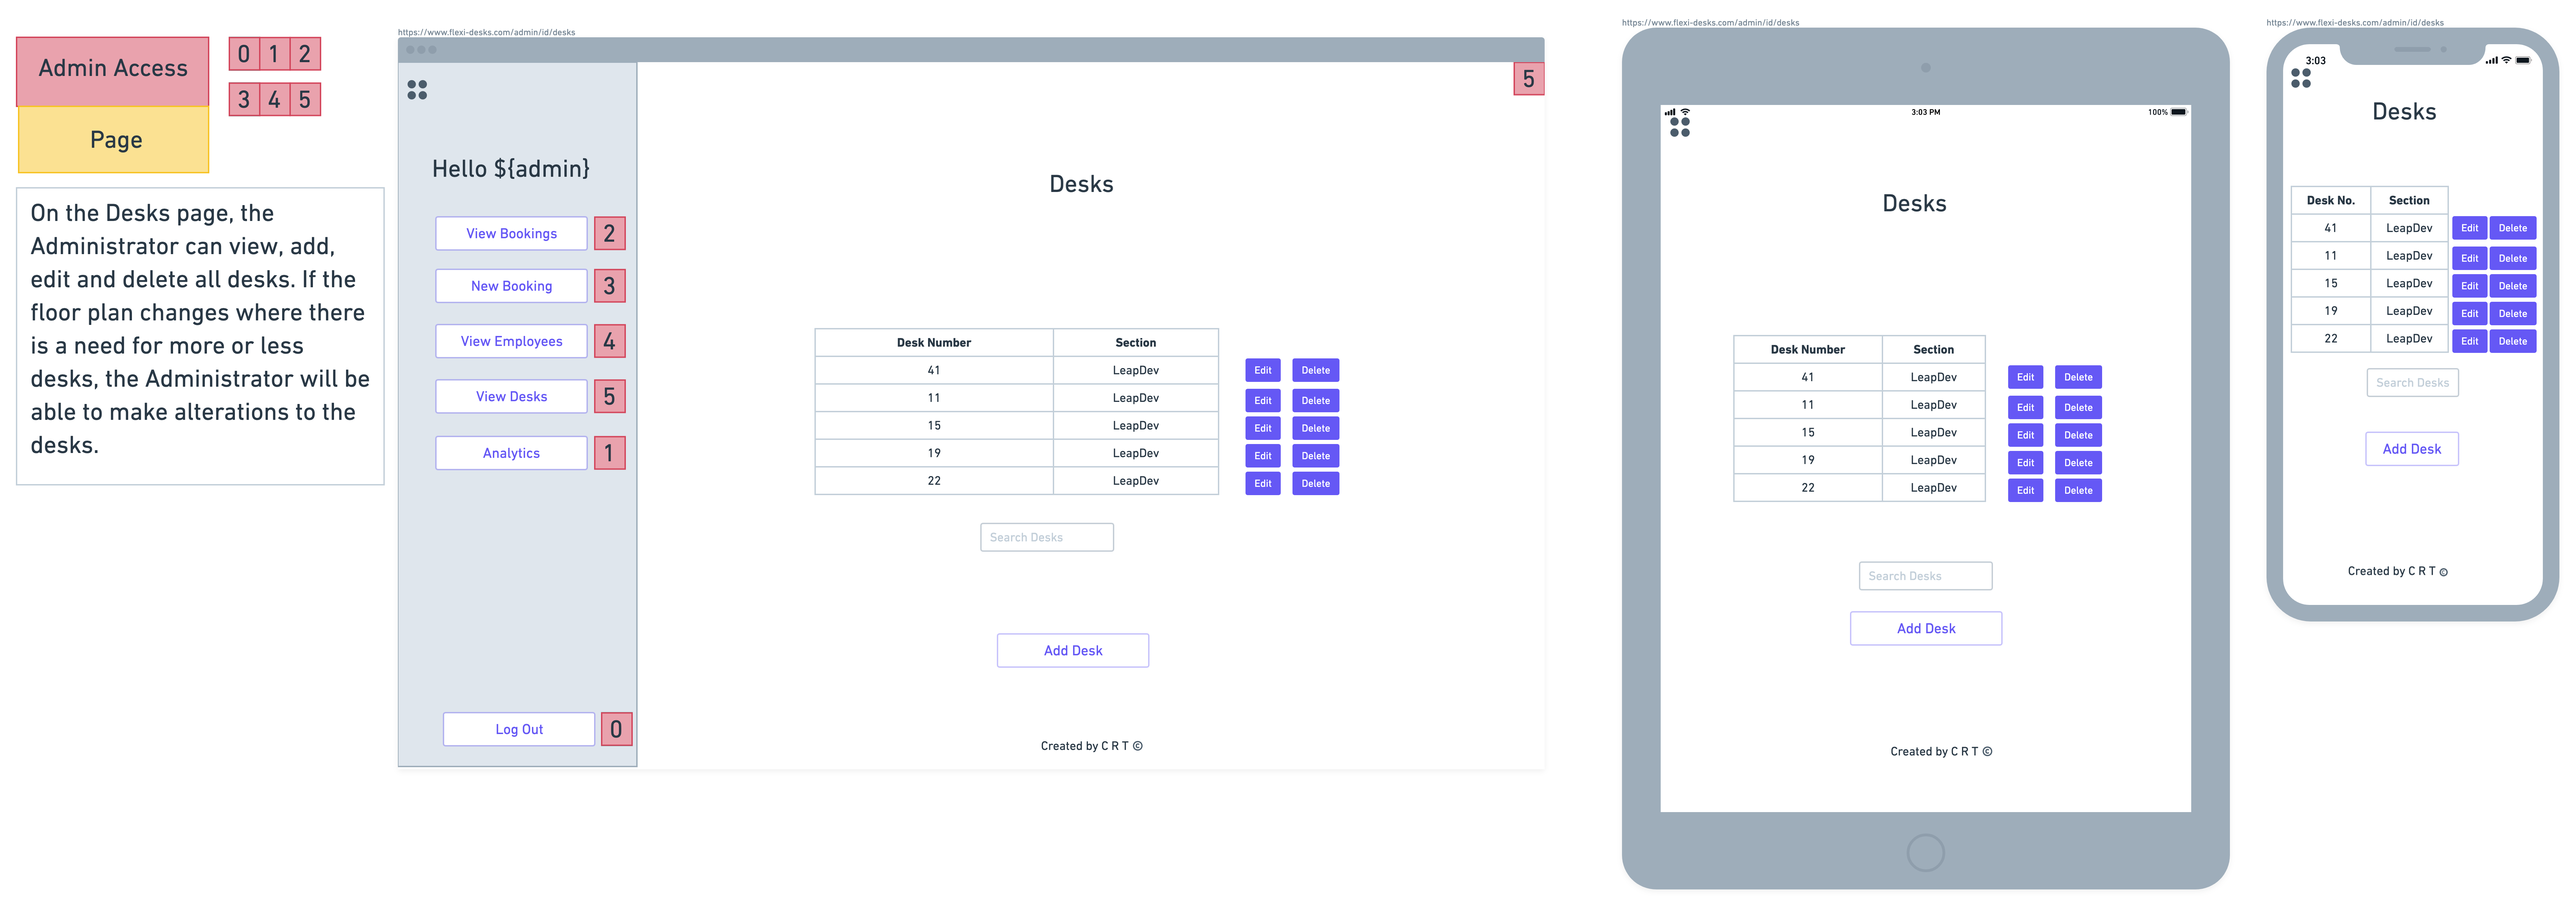
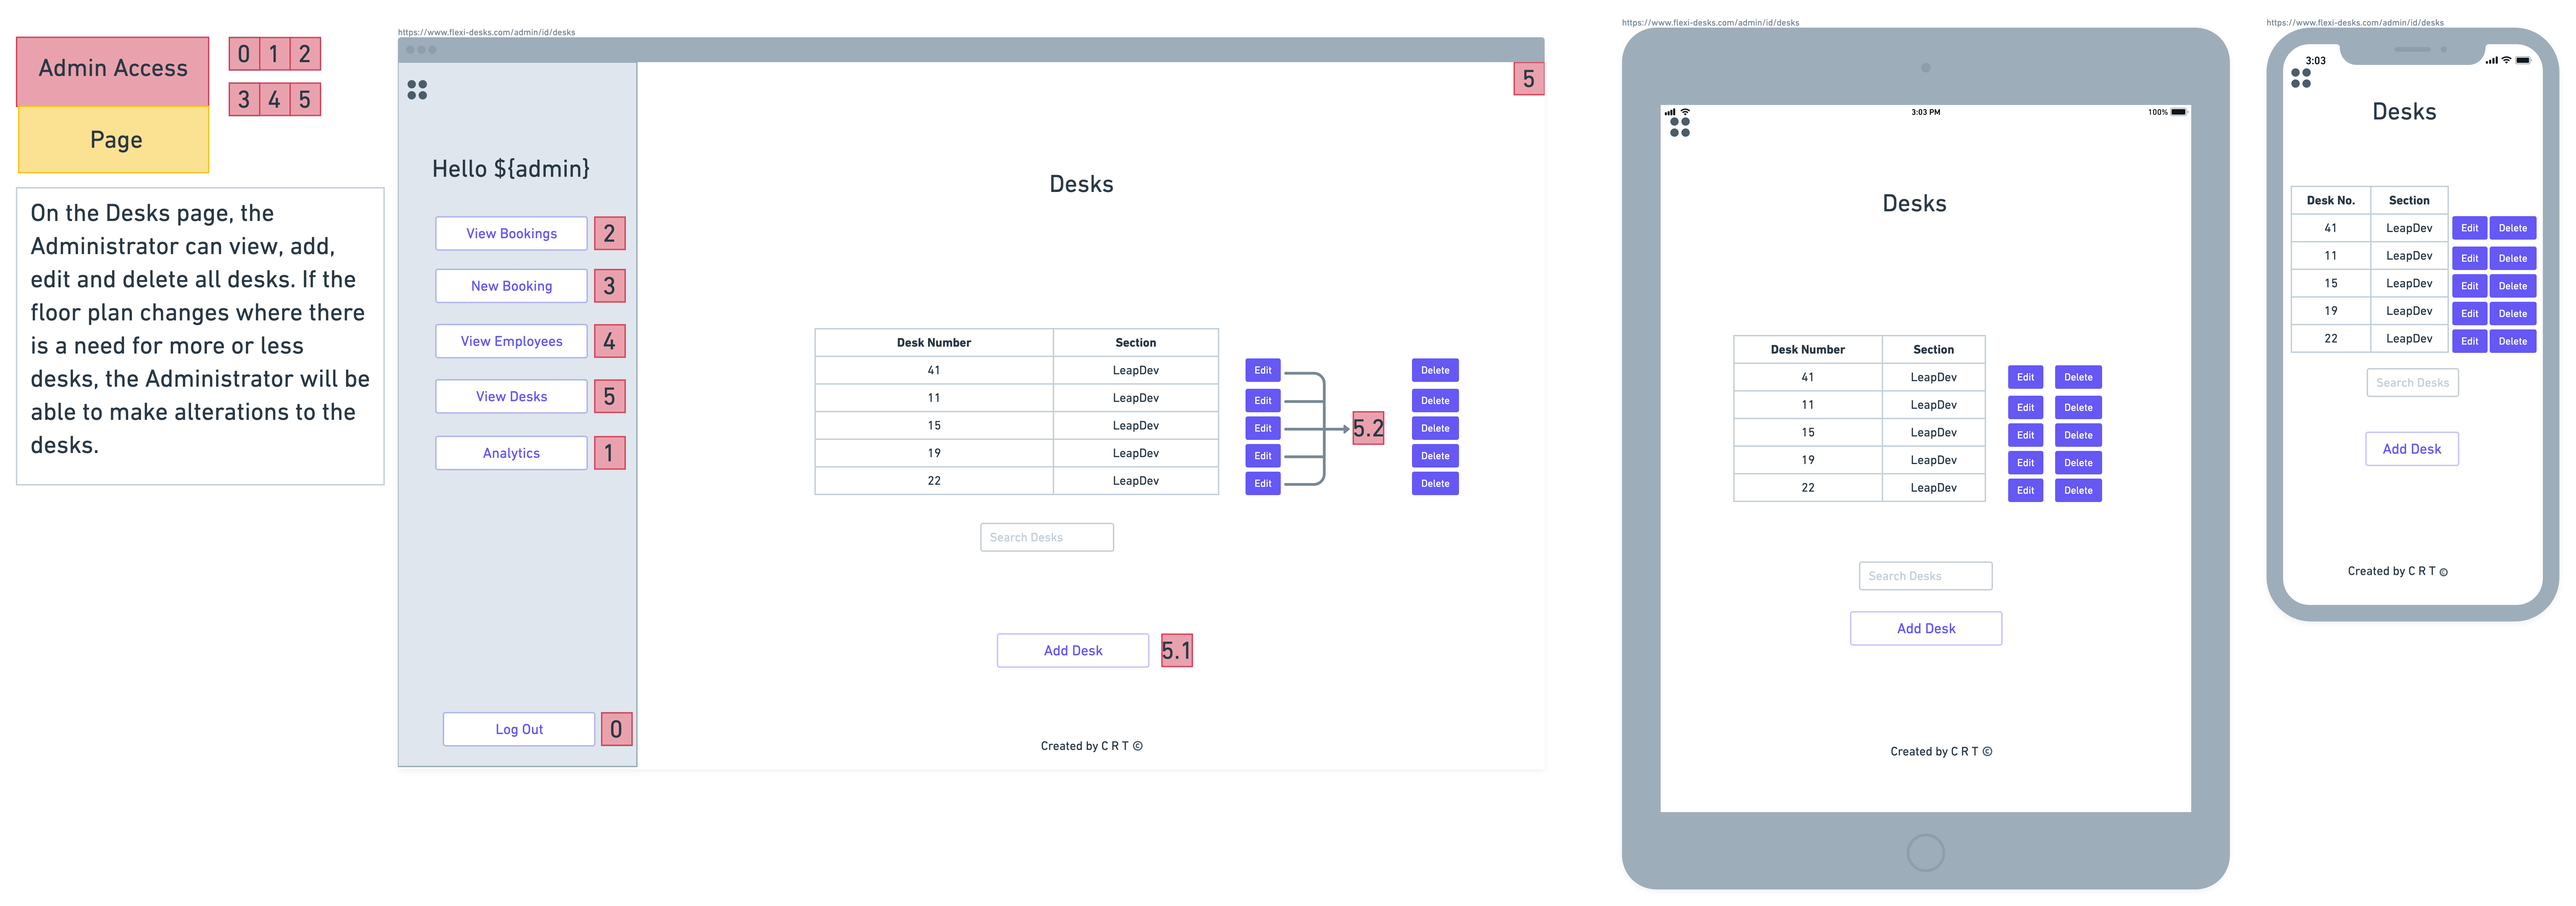
Amended wireframes
Added page numbers .1 & .2 for the window relationships.

Changed region(s): [[0.4999, 0.375, 0.5936, 0.5625], [0.4374, 0.6875, 0.4686, 0.75]]

diff --git a/README.md b/README.md
@@ -375,19 +375,17 @@ Below is a legend corresponding to the wireframes.
 
 ![Admin Bookings](docs/img/wireframes/Admin_Bookings.png)
 
-### Make Bookings Page (Admin)
+### Edit Booking - Form (Admin)
+
+![Admin Employees](docs/img/wireframes/Admin_EditBookingForm.png)
+
+### New Bookings Page (Admin)
 
 ![Admin New Bookings](docs/img/wireframes/Admin_NewBookings.png)
 
 ### New Booking Form (Admin)
 
 ![Admin New Bookings Form](docs/img/wireframes/Admin_NewBookingForm.png)
-
-### Edit Booking - Form (Admin)
-
-![Admin Employees](docs/img/wireframes/Admin_EditBookingForm.png)
-
-
 
 ### View Employees Page (Admin)
 
@@ -404,8 +402,6 @@ Below is a legend corresponding to the wireframes.
 ### View Desks Page (Admin)
 
 ![Admin Desks](docs/img/wireframes/Admin_Desks.png)
-
-
 
 ### Add Desk Form (Admin)
 
